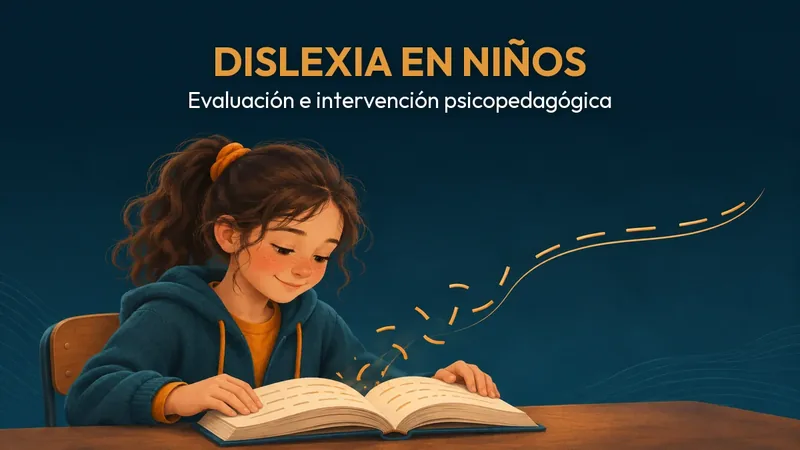
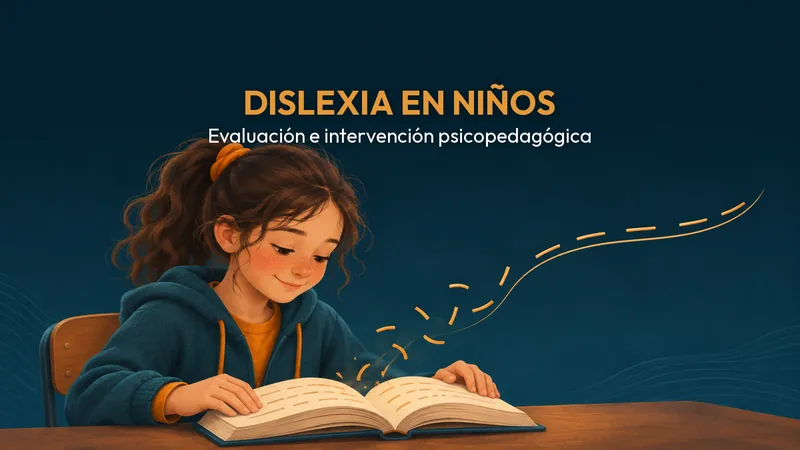
fix(blog): el título de las miniaturas nuevas ya no se corta en las tarjetas
En la vista previa del #9, las tarjetas del blog (208 px de alto con
object-cover) recortaban las miniaturas de e634764:
- a 1024 px de ancho se pierden unos 115 px de cada costado, y
  «TESTS DE FUNCIONES EJECUTIVAS» y «FUNCIONES EJECUTIVAS Y LECTURA»
  quedaban sin las primeras y las últimas letras;
- la etiqueta NUEVO tapaba la D de «DISLEXIA»;
- en pantallas anchas de una o dos columnas, el recorte centrado se
  comía el título por arriba.

Arreglo:
- Versión 2 de las cuatro imágenes: título a 50 px (el más ancho mide
  887 px, dentro de lo visible) desde y = 125, debajo de la etiqueta.
  Mismo recorte, letra, naranja y subtítulo; 60-76 KB.
- object-top en las cuatro tarjetas nuevas, para que el recorte se coma
  la parte de abajo y no el título.

Las tarjetas que ya estaban publicadas no se tocan.

Changed region(s): [[0.2188, 0.0622, 0.7812, 0.3422]]

diff --git a/blog/index.html b/blog/index.html
@@ -218,7 +218,7 @@
             <article class="bg-white rounded-xl overflow-hidden shadow-md hover:shadow-xl hover:-translate-y-1 transition-all duration-300">
                 <div class="relative">
                     <span class="absolute top-3 left-3 bg-highlight text-primary-900 text-xs font-bold px-3 py-1 rounded-full z-10">NUEVO</span>
-                    <img src="/blog/images/evaluacion-funciones-ejecutivas-thumbnail-800w.webp" alt="Tests de Funciones Ejecutivas en Niños: Guía de Instrumentos" class="w-full h-52 object-cover" width="800" height="450" loading="lazy">
+                    <img src="/blog/images/evaluacion-funciones-ejecutivas-thumbnail-800w.webp" alt="Tests de Funciones Ejecutivas en Niños: Guía de Instrumentos" class="w-full h-52 object-cover object-top" width="800" height="450" loading="lazy">
                 </div>
                 <div class="p-6">
                     <span class="text-primary-600 text-sm font-semibold uppercase tracking-wide">Gu&iacute;a Cl&iacute;nica</span>
@@ -235,7 +235,7 @@
             <article class="bg-white rounded-xl overflow-hidden shadow-md hover:shadow-xl hover:-translate-y-1 transition-all duration-300">
                 <div class="relative">
                     <span class="absolute top-3 left-3 bg-highlight text-primary-900 text-xs font-bold px-3 py-1 rounded-full z-10">NUEVO</span>
-                    <img src="/blog/images/funciones-ejecutivas-actividades-thumbnail-800w.webp" alt="Cómo Trabajar las Funciones Ejecutivas en Niños de 6 a 12 Años" class="w-full h-52 object-cover" width="800" height="450" loading="lazy">
+                    <img src="/blog/images/funciones-ejecutivas-actividades-thumbnail-800w.webp" alt="Cómo Trabajar las Funciones Ejecutivas en Niños de 6 a 12 Años" class="w-full h-52 object-cover object-top" width="800" height="450" loading="lazy">
                 </div>
                 <div class="p-6">
                     <span class="text-primary-600 text-sm font-semibold uppercase tracking-wide">Intervenci&oacute;n</span>
@@ -252,7 +252,7 @@
             <article class="bg-white rounded-xl overflow-hidden shadow-md hover:shadow-xl hover:-translate-y-1 transition-all duration-300">
                 <div class="relative">
                     <span class="absolute top-3 left-3 bg-highlight text-primary-900 text-xs font-bold px-3 py-1 rounded-full z-10">NUEVO</span>
-                    <img src="/blog/images/funciones-ejecutivas-lectura-thumbnail-800w.webp" alt="Funciones Ejecutivas y Lectura: Qué Cambia entre los 6 y los 12 Años" class="w-full h-52 object-cover" width="800" height="450" loading="lazy">
+                    <img src="/blog/images/funciones-ejecutivas-lectura-thumbnail-800w.webp" alt="Funciones Ejecutivas y Lectura: Qué Cambia entre los 6 y los 12 Años" class="w-full h-52 object-cover object-top" width="800" height="450" loading="lazy">
                 </div>
                 <div class="p-6">
                     <span class="text-primary-600 text-sm font-semibold uppercase tracking-wide">Gu&iacute;a Cl&iacute;nica</span>
@@ -269,7 +269,7 @@
             <article class="bg-white rounded-xl overflow-hidden shadow-md hover:shadow-xl hover:-translate-y-1 transition-all duration-300">
                 <div class="relative">
                     <span class="absolute top-3 left-3 bg-highlight text-primary-900 text-xs font-bold px-3 py-1 rounded-full z-10">NUEVO</span>
-                    <img src="/blog/images/dislexia-thumbnail-800w.webp" alt="Dislexia en Niños: Evaluación e Intervención Psicopedagógica" class="w-full h-52 object-cover" width="800" height="450" loading="lazy">
+                    <img src="/blog/images/dislexia-thumbnail-800w.webp" alt="Dislexia en Niños: Evaluación e Intervención Psicopedagógica" class="w-full h-52 object-cover object-top" width="800" height="450" loading="lazy">
                 </div>
                 <div class="p-6">
                     <span class="text-primary-600 text-sm font-semibold uppercase tracking-wide">Gu&iacute;a Cl&iacute;nica</span>
